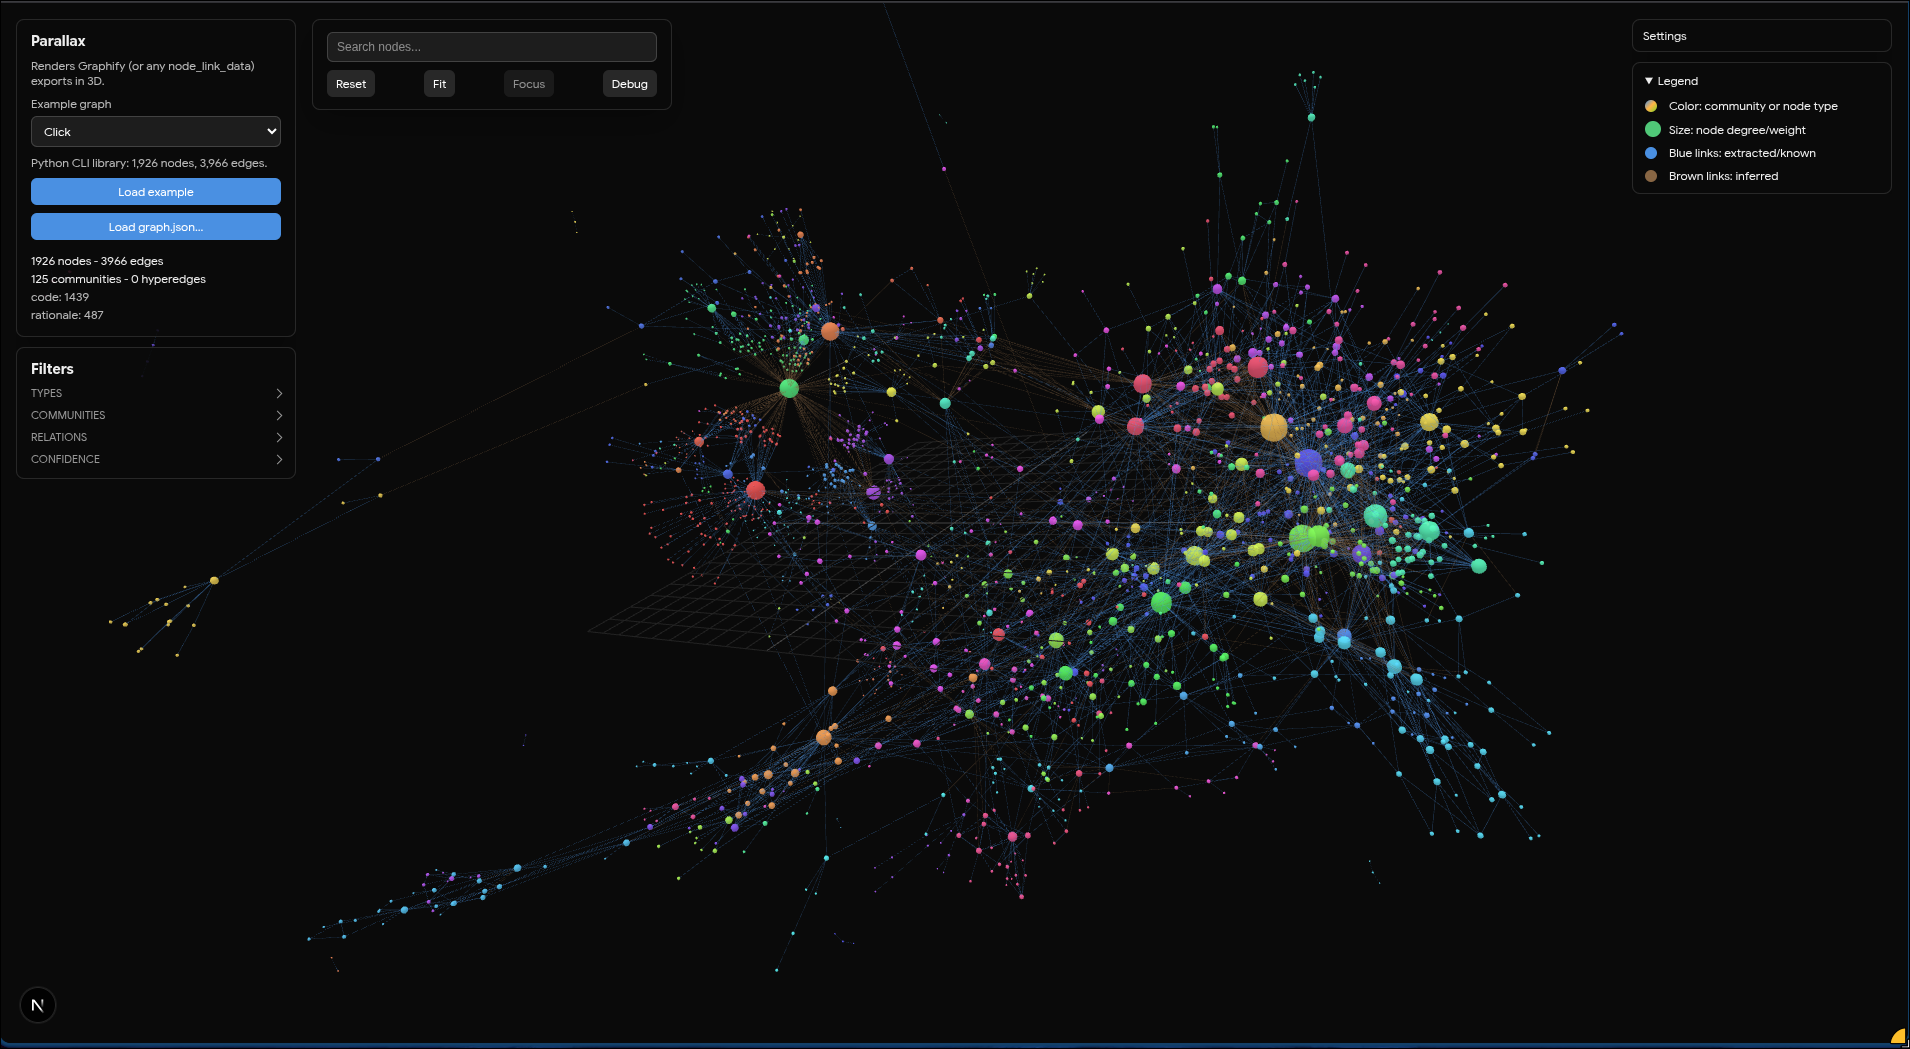
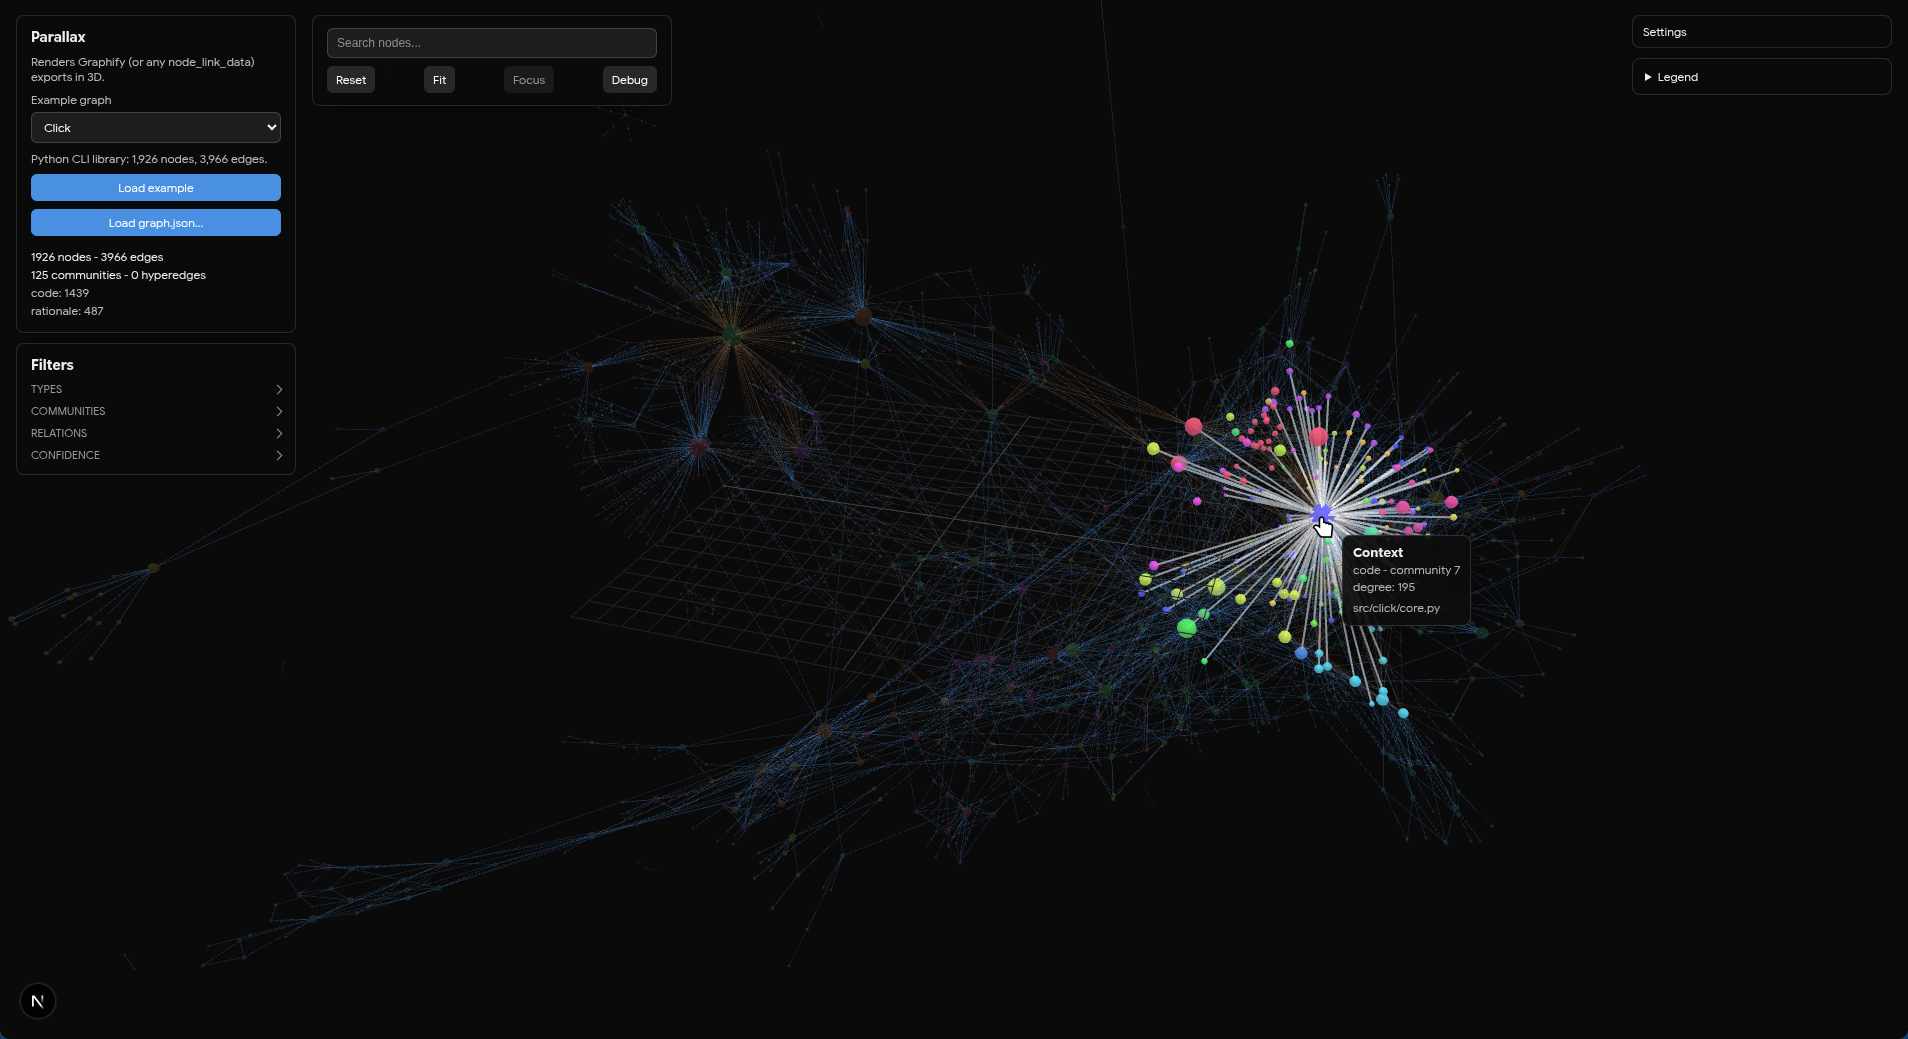
Add README demo GIF

diff --git a/README.md b/README.md
@@ -18,6 +18,8 @@ metadata, and keep the data on your own machine.
 
 ## Screenshots
 
+![Parallax demo with the Click Graphify example](public/screenshots/parallax-demo.gif)
+
 ![Click Graphify example loaded in Parallax](public/screenshots/parallax-click-example.png)
 
 ![Dense large Graphify export rendered in Parallax](public/screenshots/parallax-large-dense.png)